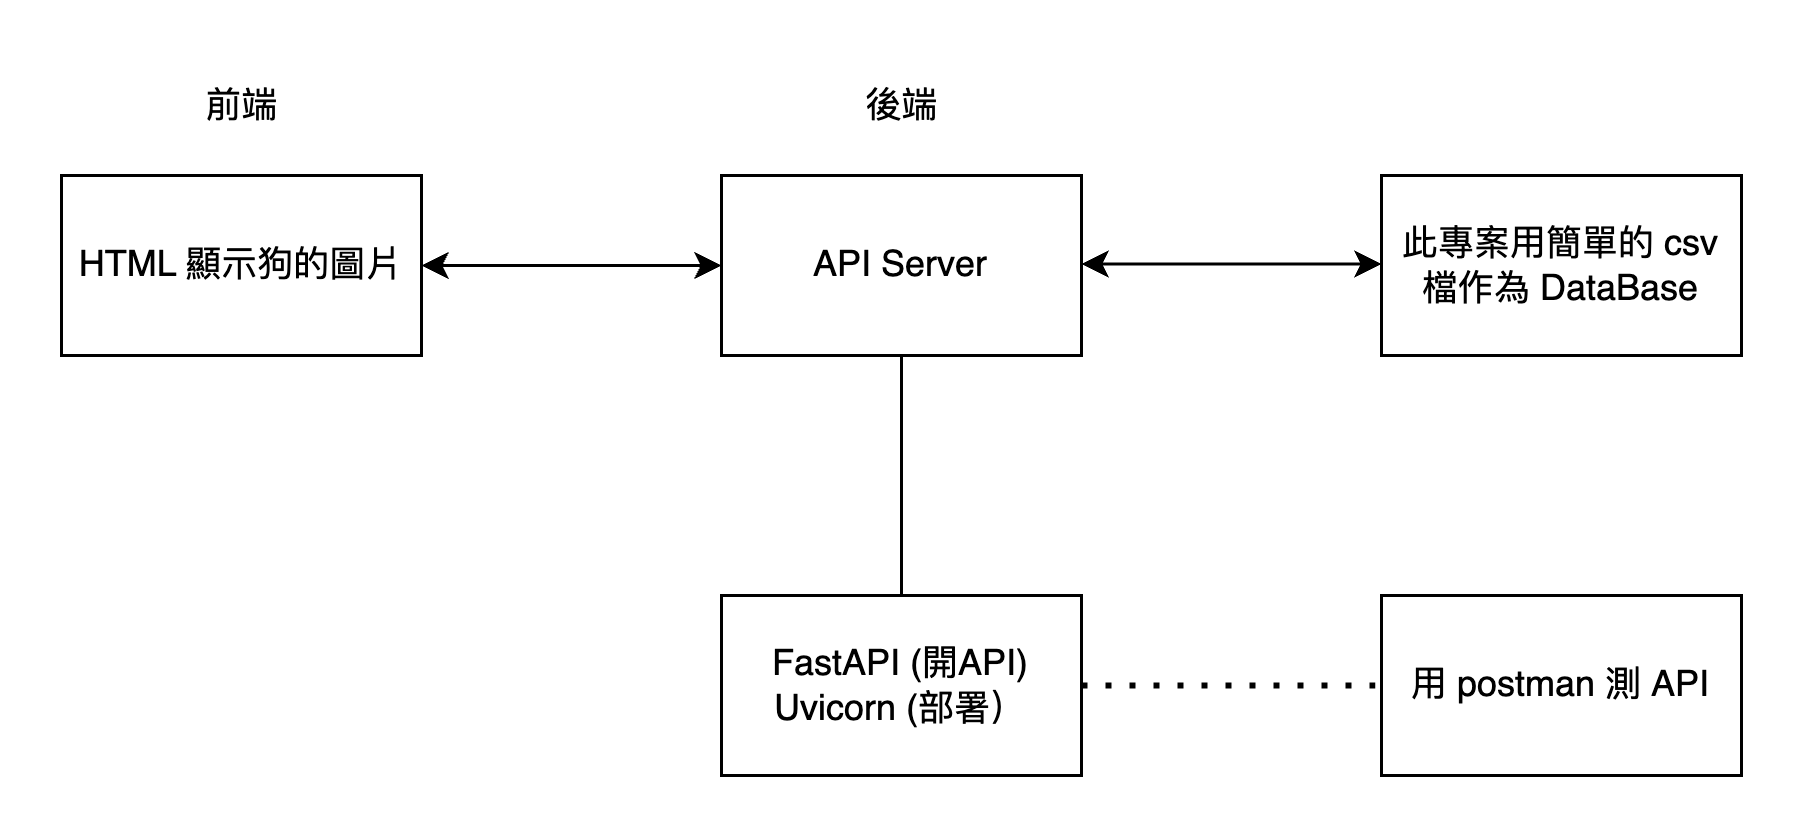
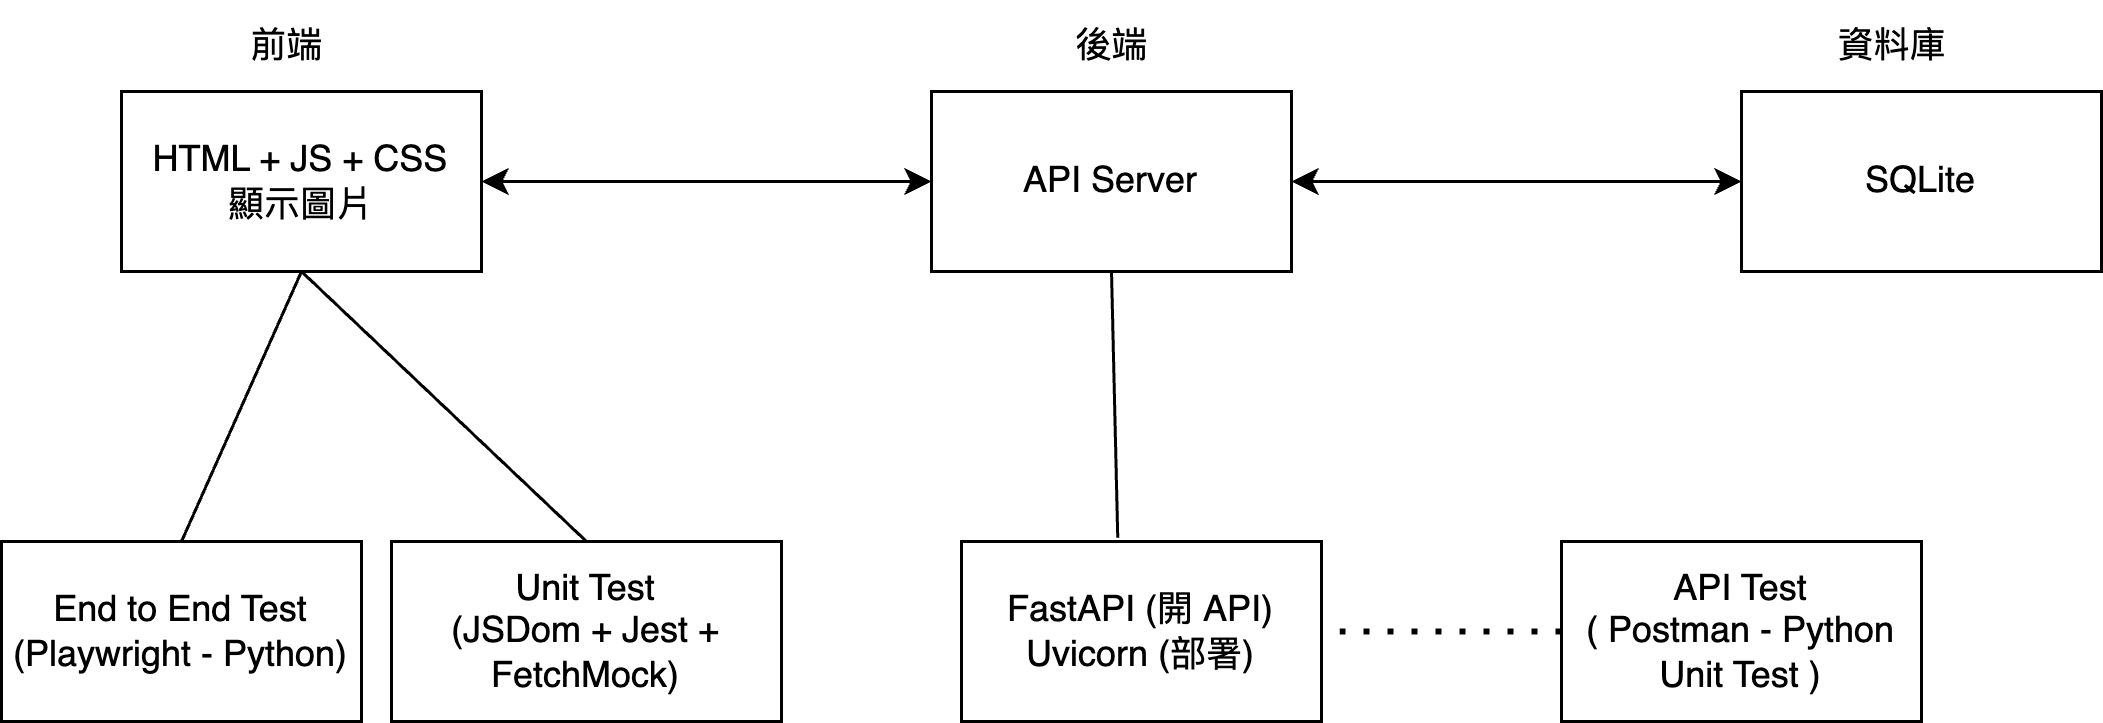
Fix api-integration test

diff --git a/dog-api-integration/client/dog.js b/dog-api-integration/client/dog.js
@@ -2,7 +2,7 @@ async function fetchDogImages() {
   try {
     const response = await fetch('http://127.0.0.1:8000/dog?limit=2');
     if (!response.ok) {
-      throw new Error('Network response was not ok');
+      throw new Error('response error');
     }
     const images = await response.json();
     const container = document.getElementById('dog-images');
@@ -13,44 +13,20 @@ async function fetchDogImages() {
 
       const img = document.createElement('img');
       img.src = image.url;
-      img.alt = `Dog image ${image.id}`;
+      img.alt = `dog-image ${image.id}`;
       img.style.maxWidth = '200px';
       img.style.maxHeight = '200px';
       img.style.objectFit = 'contain';
-
 
       imageContainer.appendChild(img);
       container.appendChild(imageContainer);
     });
   } catch (error) {
-    console.error('Error fetching dog images:', error);
+    console.error('request dog image error:', error);
   }
 }
 
-function handleFileUpload(event) {
-  const files = event.target.files;
-  const container = document.getElementById('dog-images');
+module.exports = { fetchDogImages };
+fetchDogImages();
 
-  Array.from(files).forEach(file => {
-    const reader = new FileReader();
-
-    reader.onload = (e) => {
-      const imageContainer = document.createElement('div');
-      imageContainer.className = 'image-container';
-
-      const img = document.createElement('img');
-      img.src = e.target.result;
-      img.alt = file.name;
-      img.style.maxWidth = '200px';
-      img.style.maxHeight = '200px';
-      img.style.objectFit = 'contain';
-      imageContainer.appendChild(img);
-      container.appendChild(imageContainer);
-    };
-
-    reader.readAsDataURL(file);
-  });
-}
-
-module.exports = { fetchDogImages, handleFileUpload };
 

diff --git a/dog-api-integration/client/test/unit/dog.test.js b/dog-api-integration/client/test/unit/dog.test.js
@@ -33,23 +33,22 @@ describe('fetchDogImages', () => {
     const images = container.getElementsByTagName('img');
     expect(images.length).toBe(2);
     expect(images[0].src).toBe('https://example.com/fake-dog-image-1.jpg');
-    expect(images[0].alt).toBe('Dog image fake-id-1');
+    expect(images[0].alt).toBe('dog-image fake-id-1');
     expect(images[0].style.maxWidth).toBe('200px');
     expect(images[0].style.maxHeight).toBe('200px');
     expect(images[0].style.objectFit).toBe('contain');
 
     expect(images[1].src).toBe('https://example.com/fake-dog-image-2.jpg');
-    expect(images[1].alt).toBe('Dog image fake-id-2');
+    expect(images[1].alt).toBe('dog-image fake-id-2');
     expect(images[1].style.maxWidth).toBe('200px');
     expect(images[1].style.maxHeight).toBe('200px');
     expect(images[1].style.objectFit).toBe('contain');
   });
-
   test('handles fetch errors', async () => {
     fetchMock.mock('http://127.0.0.1:8000/dog?limit=2', 500);
     const consoleSpy = jest.spyOn(console, 'error').mockImplementation(() => {});
     await fetchDogImages();
-    expect(consoleSpy).toHaveBeenCalledWith('Error fetching dog images:', expect.any(Error));
+    expect(consoleSpy).toHaveBeenCalledWith('request dog image error:', expect.any(Error));
     consoleSpy.mockRestore();
   });
 });

diff --git a/dog-api-integration/client/dog.html b/dog-api-integration/client/dog.html
@@ -13,25 +13,6 @@
       flex-direction: column;
       align-items: center;
     }
-
-    h1 {
-      margin-top: 20px;
-    }
-
-    #file-input {
-      margin-bottom: 20px;
-      padding: 10px 20px;
-      background-color: #4CAF50;
-      color: white;
-      border: none;
-      border-radius: 5px;
-      cursor: pointer;
-    }
-
-    #file-input:hover {
-      background-color: #45a049;
-    }
-
     .dog-images {
       display: flex;
       justify-content: center;
@@ -54,14 +35,8 @@
 
 <body>
   <h1>Dog Images</h1>
-  <input type="file" id="file-input" accept="image/*" multiple>
   <div class="dog-images" id="dog-images"></div>
-  <script src="./dog.js"></script>
-  <script>
-    window.onload = fetchDogImages;
-    document.getElementById('file-input').addEventListener('change', handleFileUpload);
-  </script>
+  <script type="module"src="dog.js"></script>
 </body>
-
 </html>
 

diff --git a/dog-api-integration/server/api_server.py b/dog-api-integration/server/api_server.py
@@ -30,12 +30,3 @@ def get_dog_images(limit: int = 1):
     images = read_images_from_sqlite(limit)
     return images
 
-
-@app.post("/upload/")
-async def upload_file(files: list[UploadFile] = File(...)):
-    file_paths = []
-
-    for file in files:
-        print(file.filename)
-        file_paths.append(file.filename)
-    return JSONResponse(content={"file_paths": file_paths})

diff --git a/dog-api-integration/README.md b/dog-api-integration/README.md
@@ -1,4 +1,4 @@
-# API Integration and Simple FastAPI Server (Frontend + API + Unit Test)
+# API Integration and Simple FastAPI Server (Frontend + API + Unit Tes＋SQLite)
 
 ## Table of Contents
 
@@ -9,7 +9,6 @@
 
 <h2 id="tech-stack">使用的套件列表</h2>
 
-
 - [Postman](https://github.com/postmanlabs/postman-app-support): 測 API 的工具
 - [FastApi](https://github.com/tiangolo/fastapi/blob/master/README.md): 建立 API
 - [FetchMock](https://github.com/wheresrhys/fetch-mock): Mock 打 HTTP 的 Request
@@ -17,6 +16,8 @@
 - [Jest](https://trpc.io): JS UnitTest 的框架
 - [Node.js](https://github.com/nodejs): 在瀏覽器之外執行 JS 程式的工具
 - [Playwright](https://github.com/nodejs): Web 自動化測試框架
+- [SQLite](https://github.com/nodejs):輕量級的關聯式資料庫管理系統
+
 
 <h2 id="getting-started">Getting Started</h2>
 
@@ -44,29 +45,39 @@ sh ./run_api_server.sh
 
 ![full-stack-architecture Overview](screenshot/full-stack-architecture-overview.png)
 
-前端做了哪些測試以及使用哪些工具
+前端：做了哪些測試以及使用哪些工具
 
-![Frontend Architecture Overview](screenshot/frontend-architecture-overview.png)
-
-後端 API Server 做了哪些測試以及使用哪些工具
+![Front-end Architecture](screenshot/Front-end-architecture.png)
 
 
-![Backend Architecture Overview](screenshot/backend-architecture-overview.png)
+後端 ： API Server 做了哪些測試以及使用哪些工具
+
+
+![Back-end Architecture](screenshot/Back-end-architecture.png)
+
 
 
 <h2 id="prerequisite">Prerequisite Knowledge</h2>
 
 - [網路運作原理](https://developer.mozilla.org/zh-TW/docs/Learn/Getting_started_with_the_web/How_the_Web_works)：網路如何運作
-- [介紹 HTML](https://developer.mozilla.org/zh-TW/docs/Learn/HTML/Introduction_to_HTML)：什麼是HTML
+- [介紹 HTML](https://developer.mozilla.org/zh-TW/docs/Learn/HTML/Introduction_to_HTML):認識 HTML
 - [測試金字塔](https://medium.com/@nathankpeck/microservice-testing-unit-tests-d795194fe14e):
 
-  Unit Test 測試函數是否按照預期運作
+  Unit Test: 測試函數是否按照預期運作
+  Integration Test：測試不同模組或元件之間的整合運作是否符合預期
 
+  API Test：測試 API 的 Request 和 Response 是否正確，確認端點功能是否符合需求
+
+  E2E (End-to-End) Test：模擬實際使用者操作，測試整個系統流程是否正常運作
 
 - [FastApi](https://github.com/tiangolo/fastapi/blob/master/README.md) :開 API
 - [Uvicorn](https://stackoverflow.com/questions/71435960/what-is-the-purpose-of-uvicorn):部署 API
 - [Mock API](https://ithelp.ithome.com.tw/m/articles/10270202):模擬 API Request 和 Response
 - [Mock DOM](https://ithelp.ithome.com.tw/m/articles/10270202):模擬瀏覽器產生的 DOM，通常用來測試 JS 操作的流程是否正確
+- [SQLite](https://medium.com/erens-tech-book/sqlite-%E8%88%87-mysql-%E7%9A%84%E5%B7%AE%E5%88%A5-a14926030ddd):輕量資料庫，不需要伺服器即可儲存資料，用於小型專案
+- [Database](https://ithelp.ithome.com.tw/m/articles/10233605): 什麼是資料庫
+- [Frontend and Backend, Basic Website Architecture](https://pala.tw/frontend-backend-basic/):前後端分別在做什麼事情
+- [介紹 JS](https://developer.mozilla.org/zh-TW/docs/Web/JavaScript)：認識 JS
 
 
 
